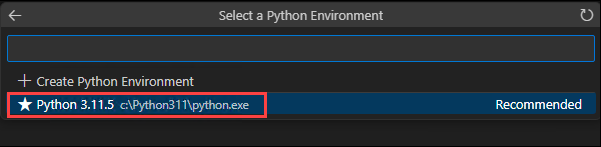
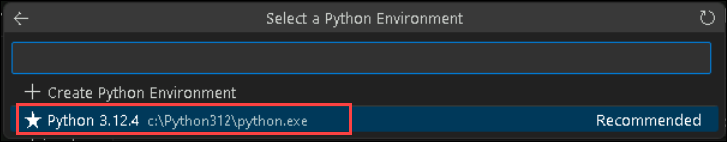
update

diff --git a/Instructions/Lab-1.md b/Instructions/Lab-1.md
@@ -14,7 +14,13 @@ In this lab, you will complete the following tasks:
 
 ### Task 1: Create an OpenAI resource and model **(Read-Only)**
 
+**Azure OpenAI**: Azure OpenAI Service is a cloud-based platform that provides access to OpenAI’s powerful language models, including GPT-4, GPT-3.5, Codex, and DALL-E12. This service allows developers to integrate these models into their applications for tasks such as content generation, summarization, semantic search, and natural language to code translation3.
+
+   Refer to the link for more information. [Azure OpenAI](https://learn.microsoft.com/en-us/azure/ai-services/openai/overview)
+
 # READ-ONLY
+
+In this task, you will learn to create an Azure OpenAI resource in the Azure portal, configure its settings, and deploy the GPT-4 model in Azure AI Studio. This involves setting up the resource, navigating to Azure AI Studio, and specifying model deployment details.
 
  > **Note:** This task is **READ-ONLY**. The OpenAI setup is already configured for your environment.
 
@@ -22,53 +28,65 @@ In this lab, you will complete the following tasks:
 
    ![](../media/img1.png "Azure OpenAI")
    
-1. From the **Cognitive Services | Azure OpenAI** pane, click on **Create**.
+1. From the **Cognitive Services | Azure OpenAI** pane in the Azure portal, click on the **Create** button to start the process of setting up a new Azure OpenAI resource.
 
    ![](../media/img2.png "Azure OpenAI")
    
-1. In the **Create Azure OpenAI** pane under the **Basics** tab, select the default subscription and select the existing **copilot-openai-<inject key="Deployment ID" enableCopy="false"/>** resource group. Select **East US** as Region, enter Name as **copilot-openai-<inject key="Deployment ID" enableCopy="false"/>** and select **Standard S0** for Pricing Tier. Click on **Next**.
+1. In the **Create Azure OpenAI** pane under the **Basics** tab, Configure the details for your new resource, such as selecting the subscription, resource group, region and other required details.
+
+   | Setting  | Value |
+   -----------|---------
+   | Subscription | Default |
+   | Resource group | **copilot-openai-<inject key="Deployment ID" enableCopy="false"/>** |
+   | Region | **East US** |
+   | Name   | **copilot-openai-<inject key="Deployment ID" enableCopy="false"/>** |
+   | Pricing Tier | **Standard S0** |
 
    ![](../media/L1-T1-S3.png "Azure OpenAI")
    
-1. Leave default settings for the Network and Tags tabs and click on **Next**.
+1. Accept the default settings for the Network and Tags tabs without making any changes. Click on **Next** to continue to the next step in the creation process.
 
-1. Verify that validation has passed in the **Review + Submit** pane, and then click on **Create**.
+1. In the **Review + Submit** pane, ensure that all validation checks have passed. After confirming that there are no errors, click on the **Create** button to finalize and start the deployment of your Azure OpenAI resource.
+
      > **Note:** This task is **READ-ONLY**. The OpenAI setup is already configured for your environment. Please **DO NOT** click on **Create**. 
 
    ![](../media/L1-T1-S5.png "Azure OpenAI")
    
-1. Deployment will take 5 minutes to complete. Once the deployment is successful, click on **Go to Resource**.
+1. The deployment process will take approximately 5 minutes to complete. Once it’s finished, click on **Go to Resource** to access and manage your newly created Azure OpenAI resource.
 
    ![](../media/L1-T1-S6.png "Azure OpenAI")
    
-1. In the Azure OpenAI resource pane, select **Go to Azure OpenAI Studio**.
+1. In the Azure OpenAI resource pane, click on **Go to Azure OpenAI Studio** to navigate to the Azure AI Studio, where you can further configure and use your OpenAI models.
 
    ![](../media/L1-T1-S7.png "Azure OpenAI")
    
-1. After navigating to Azure AI Studio, click on **Explore the new experience** pop-up on the top.
+1. After you arrive in Azure AI Studio, click on the **Explore the new experience** pop-up at the top of the page to start using the latest features and interface updates.
 
    ![](../media/explore_new-exp.jpg)
 
-1. Click on **Deployments (1)** from the left navigation pane, click on **+ Deploy model** , select **Deploy base Model (2)**.  
+1. In the left navigation pane, click on **Deployments (1)**, then click on **+ Deploy model** (2). Select **Deploy base Model** from the options presented.
 
    ![](../media/deploy-1.jpg)
 
-1. In the **Select a model** window, select **gpt-4(1)** and click on **Confirm (2)**.
+1. In the **Select a model** window, choose **gpt-4 (1)** from the available options, and then click on **Confirm (2)** to proceed with the model selection.
 
    ![](../media/new11.png)
    
-1. On the **Deploy Model** tab, enter the following details and click on **Create (5)**.
+1. On the **Deploy Model** tab, input the required details such as Deployment name, Model version, Deployment type, Tokens per Minute Rate Limit, and enable dynamic quota. Once all fields are filled, Click on **Deploy** (6).
 
-    - **Deployment name**: copilot-gpt (1) 
-    - **Model version**: 0613 (Default) (2)
-    - **Deployment type**: Standard (3)
-    - **Tokens per Minute Rate Limit (thousands)**: 15K (4)
-    - **Enable dynamic quota**: Enabled (5)
-    - Click on **Deploy** (6)
+   | Setting  | Value |
+   -----------|---------
+   | Deployment name | **copilot-gpt (1)** |
+   | Model version | **0613 (Default) (2)** |
+   | Deployment type | **Standard (3)** |
+   | Tokens per Minute Rate Limit (thousands) | **15K (4)** |
+   | Enable dynamic quota | **Enabled (5)** |
 
      ![](../media/new9.png)
    
 ### Task 2: Building a ChatGPT-like application on Streamlit with streaming  
+
+In this task, you will set up an Azure OpenAI resource, deploy models like GPT-4, and integrate the required API keys. After configuring the application with these details, you will run and test a ChatGPT-like app to verify its functionality, demonstrating how to use Azure OpenAI models in a practical application.
 
 1. In the Azure portal, search for **Azure OpenAI** **(1)** in the top search box, then select **Azure OpenAI** **(2)** under services.
 
@@ -78,11 +96,11 @@ In this lab, you will complete the following tasks:
 
    ![](../media/select-openai.png "Azure OpenAI")
 
-1. In the Azure OpenAI resource pane, select **Go to Azure OpenAI Studio**.
+1. In the Azure OpenAI resource pane, click on **Go to Azure OpenAI Studio**. This action will redirect you to the Azure AI Studio interface, where you can manage and interact with your OpenAI models, explore available features, and perform tasks related to model deployment and configuration.
 
    ![](../media/L1-T1-S7.png "Azure OpenAI")
-      
-1. In the **Azure OpenAI Studio**, select **Deployments** under Management and verify that the **gpt-4** and **text-embedding-ada-002** models are present with the deployment names as **copilot-gpt** and **text-embedding-ada-002**. Review that the model's capacity is set to **15K TPM**. Copy the Azure OpenAI deployment names and model names into the text file for later use.
+
+1. In the **Azure OpenAI Studio**, select **Deployments (1)** under Management and verify that the **gpt-4** and **text-embedding-ada-002** models are present with the deployment names as **copilot-gpt** and **CompletionModel**. Review that the model's capacity is set to **15K TPM**. Copy the Azure OpenAI deployment names and model names into the text file for later use.
    
    ![](../media/new10.png)
 
@@ -115,7 +133,7 @@ In this lab, you will complete the following tasks:
    | **Variables**                | **Values**                                                    |
    | ---------------------------- |---------------------------------------------------------------|
    | **AZURE_OPENAI_API_KEY**     | **<inject key="OpenAIKey" enableCopy="true"/>**               |
-   | **AZURE_OPENAI_CHAT_DEPLOYMENT** | Replace with your **GPT** model Azure OpenAI Deployment Name  | 
+   | **AZURE_OPENAI_CHAT_DEPLOYMENT** | **copilot-gpt**  | 
    | **AZURE_OPENAI_ENDPOINT**    | **<inject key="OpenAIEndpoint" enableCopy="true"/>**          |
 
       ![](../media/img68.png)
@@ -124,11 +142,12 @@ In this lab, you will complete the following tasks:
 
     ![](../media/img70.png) 
  
-1. Next, click on the **Eclipse Button** on the top, then select **Terminal** and click on **New Terminal**.
+1. Next, click on the **Eclipse Button** at the top of the screen, then select **Terminal** from the dropdown menu and click on **New Terminal** to open a new terminal window.
 
     ![](../media/img69.png) 
 
-1. Run the below command in the terminal to change the directory.
+
+1. Run the following command in the terminal to change the directory:
 
    ```
    cd C:\LabFiles\OpenAIWorkshop\scenarios\incubations\copilot\ChatGPT
@@ -142,13 +161,13 @@ In this lab, you will complete the following tasks:
    streamlit run chatgpt.py
    ```
    
-1. Once the execution of `streamlit run chatgpt.py` is completed, a locally hosted demo application will be opened in the web browser.
+1. Once the command `streamlit run chatgpt.py` has executed, a demo application will be launched and opened in your web browser, hosted locally on your machine.
 
    ![](../media/img71.png "Azure OpenAI")
    
    ![](../media/img72.png "Azure OpenAI")
 
-1. Explore the app by running a few queries. Congratulations! You've built your own ChatGPT-like app in 50 lines of code.
+1. Explore the app by running a few queries. Congratulations! You've built your own ChatGPT-like application in 50 lines of code.
 
    ![](../media/img73.png "Azure OpenAI")
 
@@ -160,6 +179,6 @@ In this lab, you will complete the following tasks:
 
 ## Summary
 
-In this exercise, you have created an OpenAI resource and model and built a ChatGPT-like application on Streamlit with streaming.
+In this exercise, you set up an Azure OpenAI resource and model, and built a ChatGPT-like application using Streamlit. You navigated the Azure portal to create and configure your OpenAI resource, verified model deployments, and gathered the necessary API keys and endpoints. After configuring your application with these details, you ran and tested it locally, successfully creating a functional ChatGPT-like app. This process demonstrated the integration of Azure OpenAI models into a practical application, showcasing the steps to build and deploy AI-driven chat functionalities.
 
-### You have successfully completed the lab
+### You have successfully completed the lab >> Click on Next

diff --git a/Instructions/Lab-2.md b/Instructions/Lab-2.md
@@ -14,6 +14,15 @@ You will be able to complete the following tasks:
   
 ### Task 1: Understand Function calling
 
+In this task, you will configure and test a project in Visual Studio Code by updating necessary settings, installing dependencies, and executing a Jupyter notebook. This ensures that the project is correctly set up and functioning as expected with the integrated APIs and modules.
+
+**Function calling**: Function calling allows you to connect models like gpt-4o to external tools and systems. This is useful for many things such as empowering AI assistants with capabilities, or building deep integrations between your applications and the models.
+
+ Refer to the link for more information.
+ 
+ - [Function Calling](https://platform.openai.com/docs/guides/function-calling)
+ - [Function Calling with Azure OpenAI Service](https://learn.microsoft.com/en-us/azure/ai-services/openai/how-to/function-calling)
+
 1. Open **Visual Studio Code** from the desktop; next, click on **File** and select **Open Folder**.
 
     ![](../media/img55.png) 
@@ -34,7 +43,7 @@ You will be able to complete the following tasks:
 
    | **Variables**                | **Values**                                                    |
    | ---------------------------- |---------------------------------------------------------------|
-   | **DEPLOYMENT_NAME**          |  Replace the value with your **gpt-model** name               |
+   | **DEPLOYMENT_NAME**          |  **copilot-gpt**              |
    | **OPENAI_API_BASE**          | **<inject key="OpenAIEndpoint" enableCopy="true"/>**          |
    | **OPENAI_API_KEY**           | **<inject key="OpenAIKey" enableCopy="true"/>**               |
    | **SEARCH_SERVICE_ENDPOINT**  | **<inject key="SearchServiceuri" enableCopy="true"/>**        |
@@ -42,7 +51,7 @@ You will be able to complete the following tasks:
    
    ![](../media/img58.png) 
 
-7. Next, click on the **Eclipse Button (1)** on the top, then select **Terminal (2)** and click on **New Terminal (3)**.
+7. Next, click on the **Eclipse Button (1)** at the top of the screen, then select **Terminal (2)** from the dropdown menu, and click on **New Terminal (3)** to open a new terminal window.
 
     ![](../media/img59.png) 
 
@@ -52,7 +61,7 @@ You will be able to complete the following tasks:
     pip install -r requirements.txt
     ```
 
-9. Once the requirements are installed, close the terminal.
+9. Once the required modules are installed, close the terminal.
 
 10. Open the `working_with_functions.ipynb` file from the left menu.
 
@@ -66,11 +75,11 @@ You will be able to complete the following tasks:
 
        ![](../media/img62.png) 
 
-13. Next, on the **Select a Python Environment** pop-up, select **Python 3.11.5**. This will set the Python Environment. 
+13. Next, on the **Select a Python Environment** pop-up, select **Python 3.12.4**. This will set the Python Environment. 
 
        ![](../media/select-python.png) 
 
-    > **Note**: If prompt **Runnning cells with 'c:\pytjon311\python.exe' requires the ipykernel package.** then click on **Install**.
+    > **Note**: If prompt **Runnning cells with 'c:\pytjon312\python.exe' requires the ipykernel package.** then click on **Install**.
 
       ![](../media/install.png)
 
@@ -82,6 +91,6 @@ You will be able to complete the following tasks:
 
 ## Summary
 
-In this exercise, you have understood Function calling.
+In this exercise, you have understood Function calling and learned how to set up a Visual Studio Code environment, configure the necessary files for your project, install required modules, and execute a Jupyter notebook. You’ve also gained experience with handling Python environments, using terminal commands, and verifying code execution in Jupyter notebooks.
 
-### You have successfully completed the lab
+### You have successfully completed the lab >> Click on Next.
